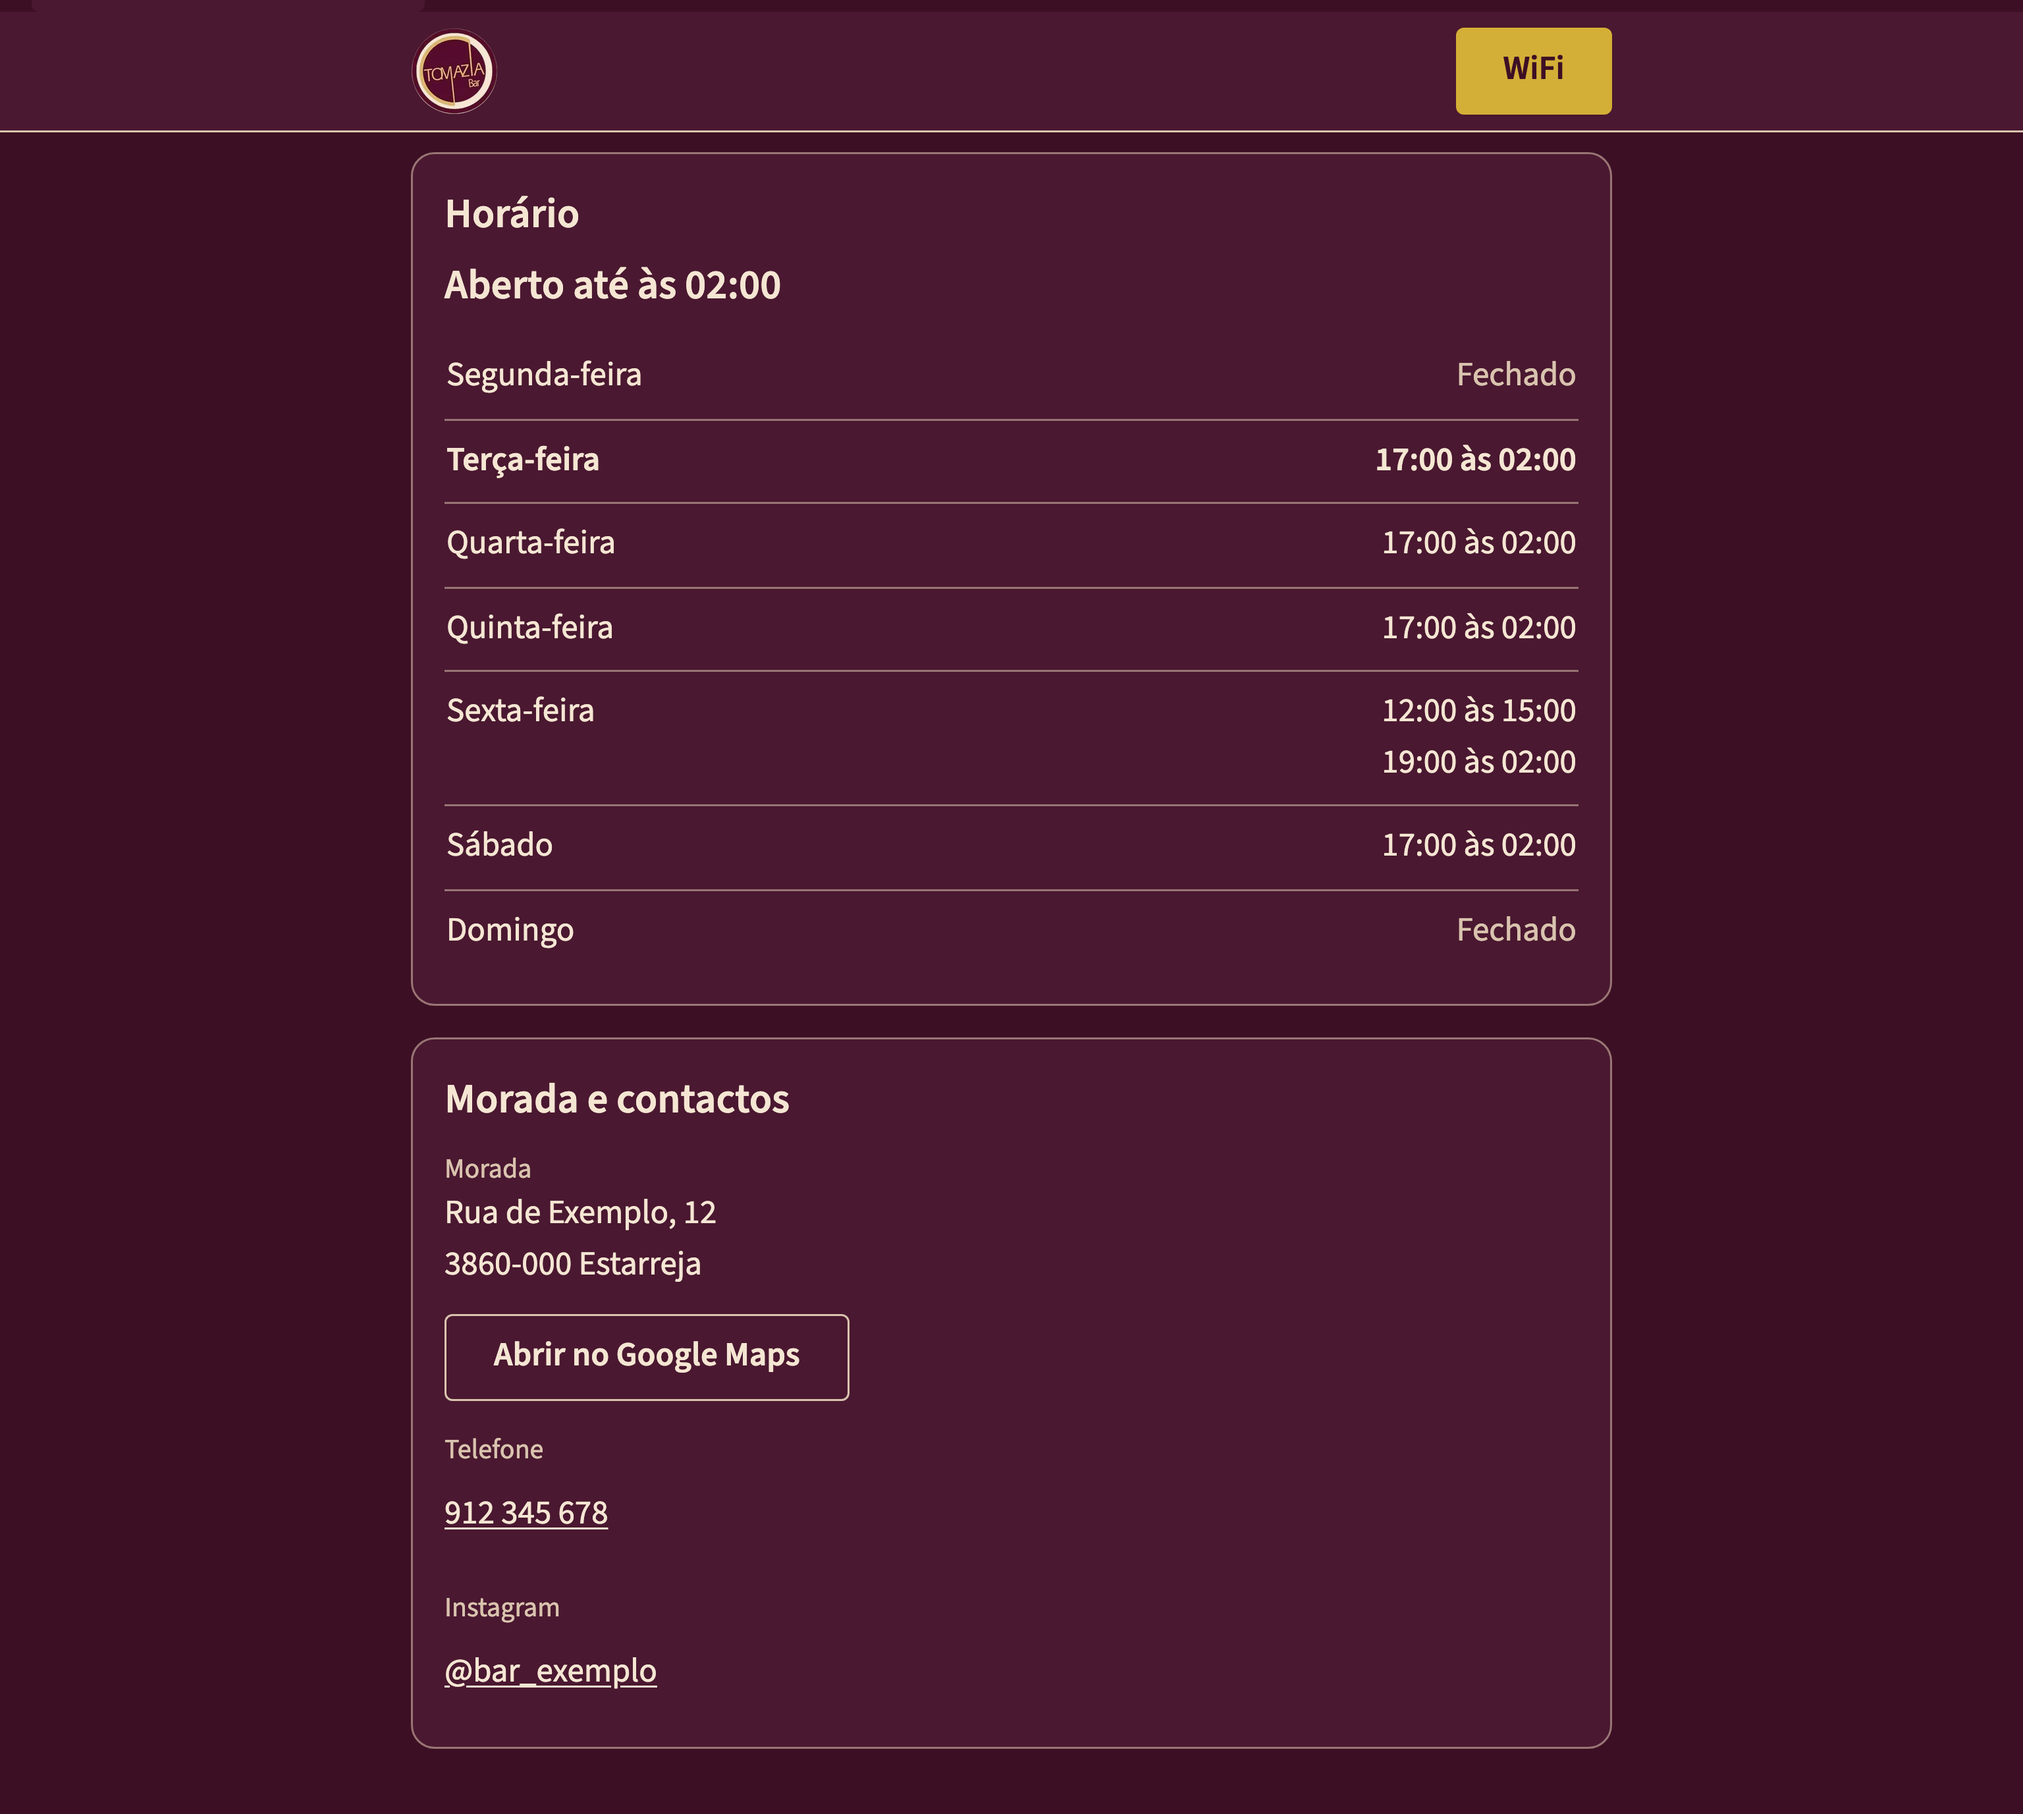
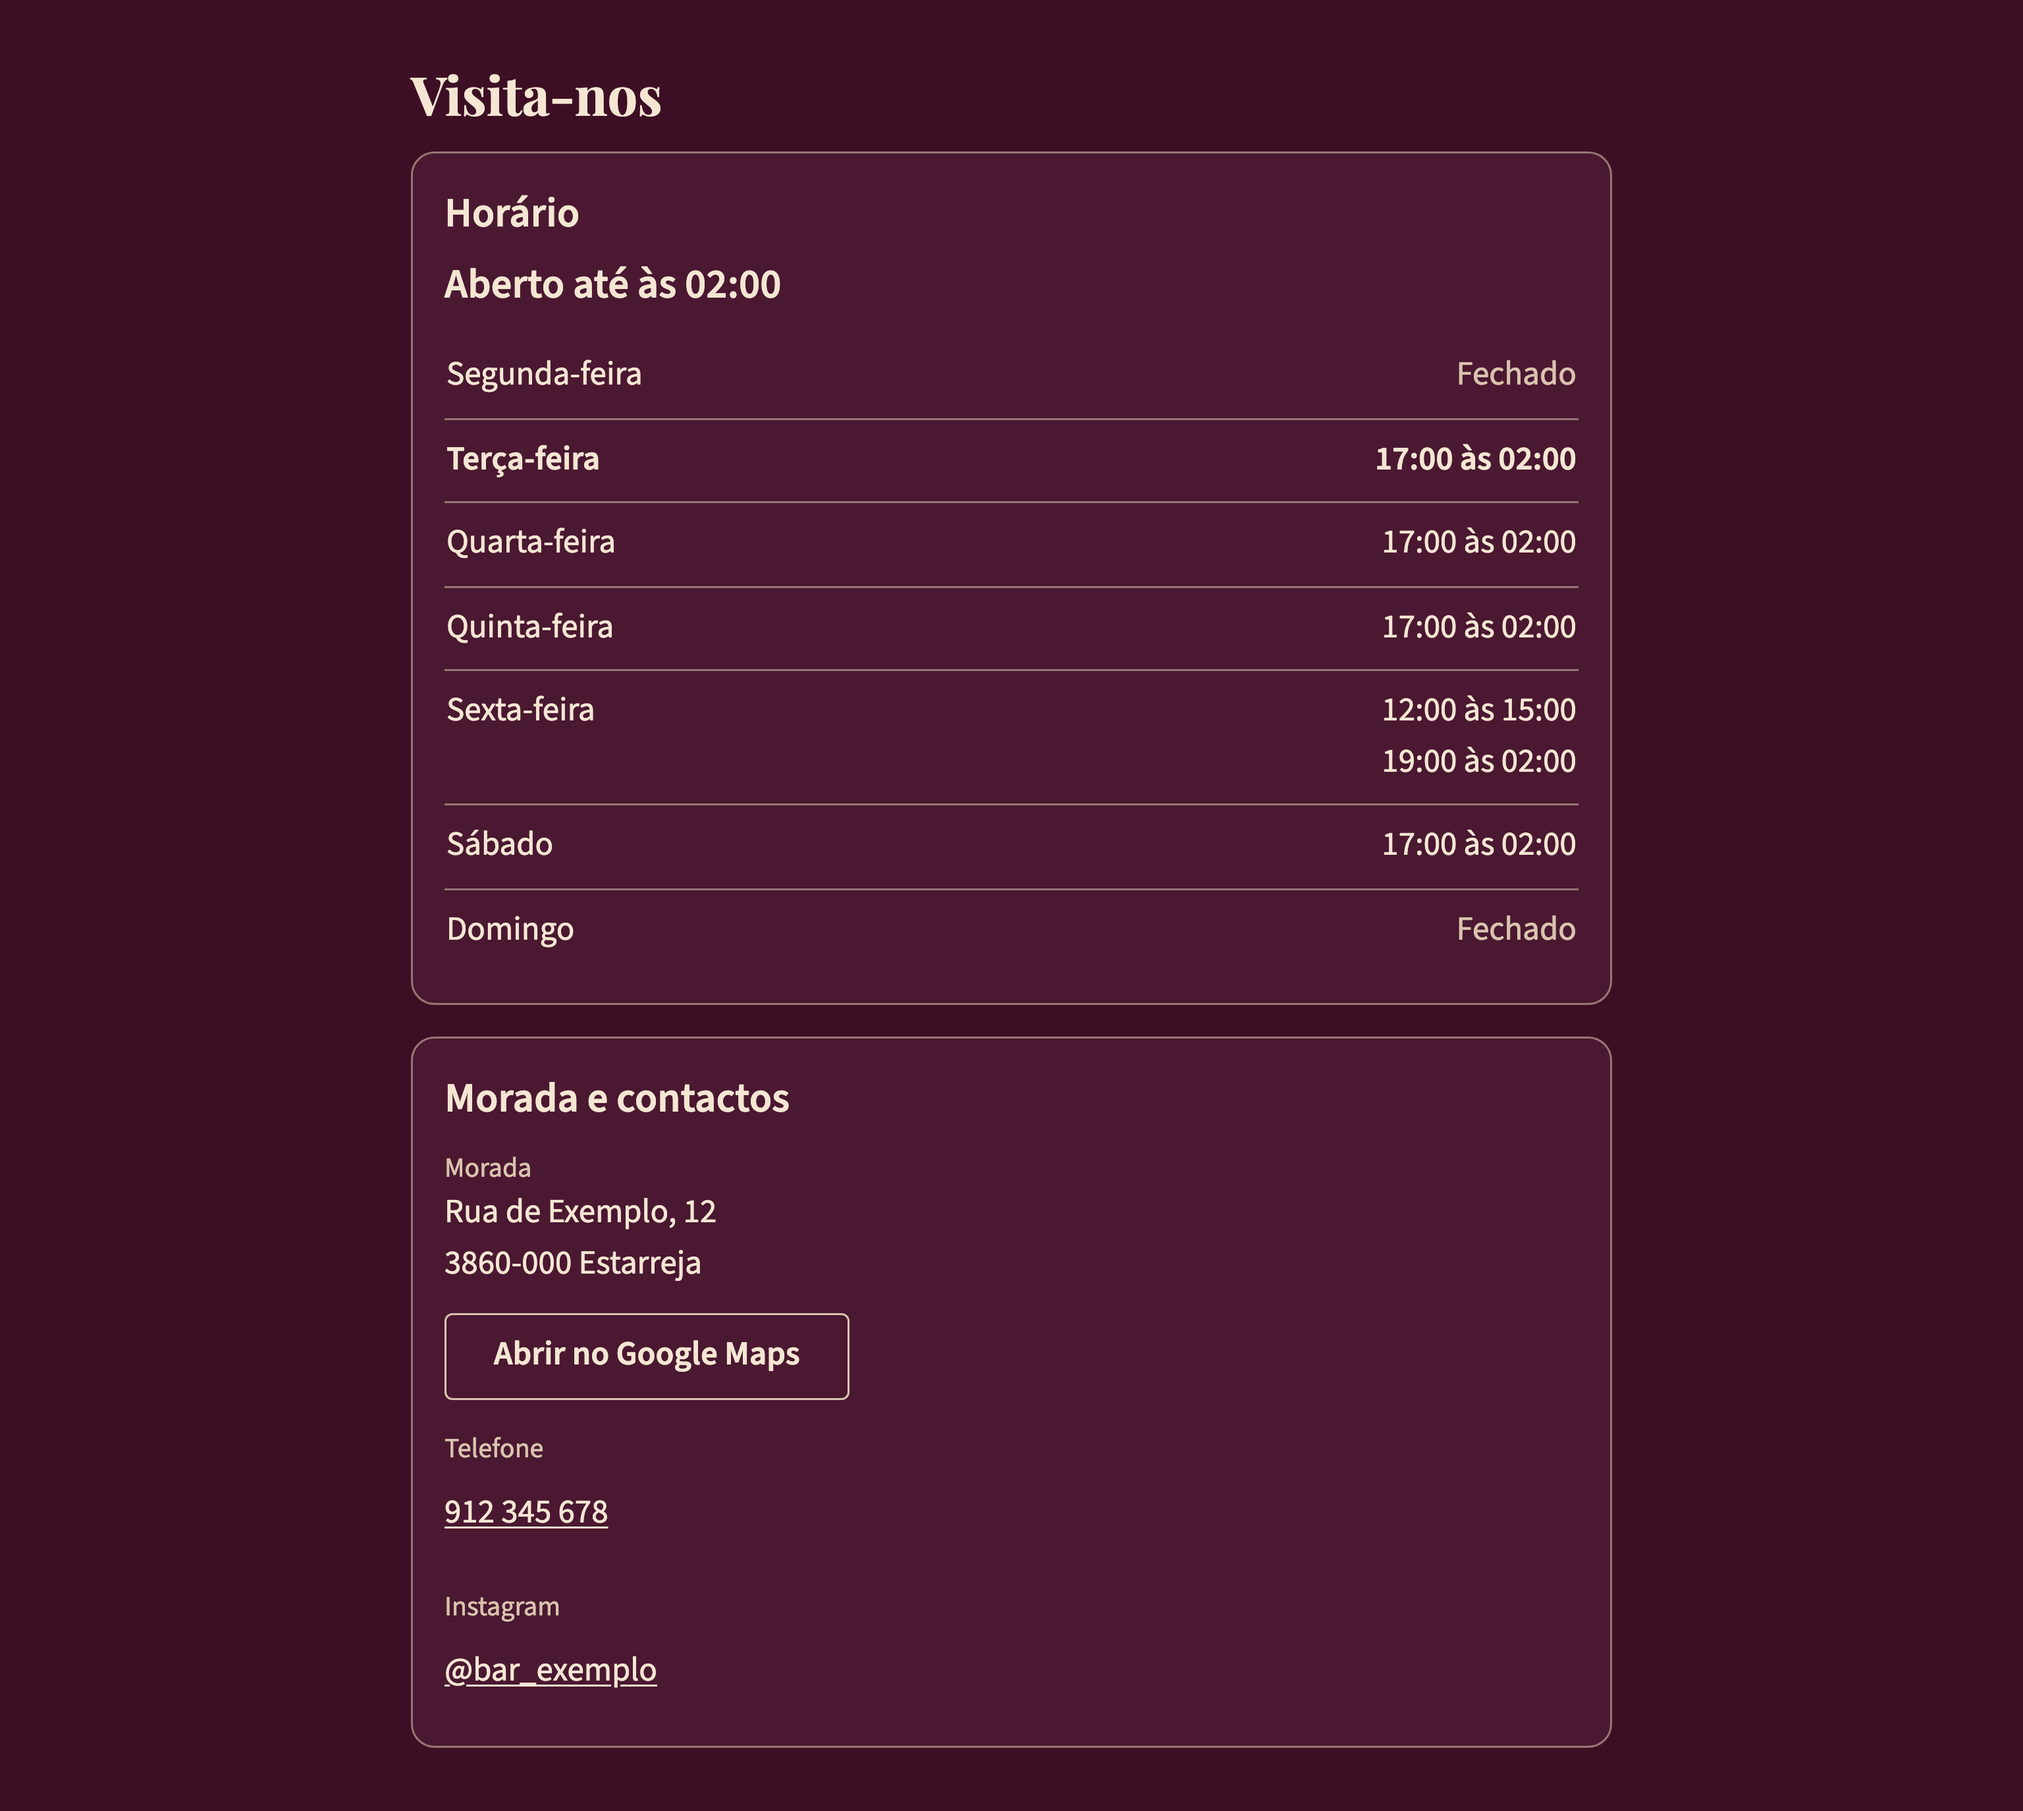
fix(publico): ajustes da revisao da F3-06a
O temporizador nunca passa da proxima hora UTC inteira: na noite de marco
uma fronteira que nao existe deixa de dar recalculos de segundo a segundo,
e em outubro o ecra acompanha a segunda passagem da 01:30. "Tentar outra
vez" cumpre a promessa anterior. Teto do pacote publico em 86 kB (decisao
do Tomas). Captura a 1024 com o titulo visivel.

diff --git a/frontend/src/pages/publico/VisitaNos.mudanca-de-hora.test.tsx b/frontend/src/pages/publico/VisitaNos.mudanca-de-hora.test.tsx
@@ -1,0 +1,83 @@
+/**
+ * F3-06a, 5.3 — o temporizador nas duas noites de mudança de hora.
+ *
+ * Duas coisas que só se vêm nessas noites, ambas com um sábado `17:00–01:30`:
+ *
+ *  - **29 de março**: a 01:30 de relógio não existe (01:59 salta para 02:00). A
+ *    fronteira recua para «agora» e a espera não pode cair no mínimo de 1 s
+ *    durante uma hora (cerca de 1800 recálculos): vai para a hora UTC cheia
+ *    seguinte.
+ *  - **25 de outubro**: a 01:xx passa duas vezes. Na primeira 01:30 (verão) o
+ *    sábado já fechou; à 01:00 de inverno (uma hora real depois) o
+ *    `estadoDoHorario` diz «aberto», e o ecrã tem de o dizer também, em vez de
+ *    esperar uma hora inteira com «Fechado».
+ */
+import { act, render, screen } from "@testing-library/react";
+import { afterEach, beforeEach, describe, expect, it, vi } from "vitest";
+
+import { esperaAteAProximaMudanca, periodosDaSemana } from "../../lib/horario/estado-do-horario";
+import { semanaDeTeste } from "../../testes/gestao";
+import {
+  MUDANCA_DE_HORA,
+  TEXTOS_DO_VISITA_NOS as T,
+  infoCom,
+  pronto,
+} from "../../testes/visita-nos";
+import { VisitaNos } from "./VisitaNos";
+
+const MINUTO = 60_000;
+const SABADO_ATE_UMA_E_MEIA = () => semanaDeTeste({ sabado: [["17:00", "01:30"]] });
+
+beforeEach(() => {
+  vi.useFakeTimers();
+});
+
+afterEach(() => {
+  vi.useRealTimers();
+});
+
+function linha(): string {
+  const titulo = screen.getByRole("heading", { name: T.tituloDoHorario, level: 3 });
+  return titulo.nextElementSibling?.textContent ?? "(sem linha do momento)";
+}
+
+describe("29 de março: a fronteira que não existe", () => {
+  it("a 00:30 UTC com fecho às 01:30 espera cerca de 30 minutos, não 1 segundo", () => {
+    const espera = esperaAteAProximaMudanca(
+      periodosDaSemana(SABADO_ATE_UMA_E_MEIA()),
+      new Date(MUDANCA_DE_HORA.marDom00h30),
+    );
+
+    expect(espera).toBeGreaterThanOrEqual(30 * MINUTO);
+    expect(espera).toBeLessThanOrEqual(31 * MINUTO);
+  });
+});
+
+describe("25 de outubro: a segunda passagem da 01:xx", () => {
+  it("a espera pára na hora UTC cheia, quando o relógio recua", () => {
+    const espera = esperaAteAProximaMudanca(
+      periodosDaSemana(SABADO_ATE_UMA_E_MEIA()),
+      new Date(MUDANCA_DE_HORA.outDom01h30Primeira),
+    );
+
+    expect(espera).toBeGreaterThanOrEqual(30 * MINUTO);
+    expect(espera).toBeLessThanOrEqual(31 * MINUTO);
+  });
+
+  it("à 01:30 de verão está fechado; meia hora depois (01:00 de inverno) o ecrã diz aberto", () => {
+    vi.setSystemTime(new Date(MUDANCA_DE_HORA.outDom01h30Primeira));
+    render(
+      <VisitaNos
+        info={pronto(infoCom({ horario: SABADO_ATE_UMA_E_MEIA() }))}
+        aoTentarOutraVez={() => Promise.resolve()}
+      />,
+    );
+    expect(linha()).toMatch(/^Fechado/);
+
+    act(() => {
+      vi.advanceTimersByTime(31 * MINUTO);
+    });
+
+    expect(linha()).toBe("Aberto até à 01:30");
+  });
+});

diff --git a/frontend/src/lib/horario/estado-do-horario.ts b/frontend/src/lib/horario/estado-do-horario.ts
@@ -240,6 +240,22 @@ export function esperaAteAProximaMudanca(periodosDaData: PeriodosDaData, agora: 
     chegada.minuto;
   instante -= (chegadaEmMinutos - alvo) * MS_DO_MINUTO;
 
-  const espera = instante - agora.getTime() + FOLGA_EM_MS;
+  /*
+   * Nunca se espera para lá da próxima hora UTC inteira. As mudanças de hora de
+   * Lisboa são às 01:00 UTC, e o relógio da parede salta por horas inteiras:
+   * acordar nas horas UTC cheias é acordar do lado certo de cada salto.
+   *
+   * - Em março, uma fronteira entre 01:00 e 01:59 de relógio não existe, e a
+   *   correção acima recua-a para «agora»: sem isto a espera caía no mínimo de
+   *   1 s durante uma hora. Aqui vai para a hora cheia seguinte.
+   * - Em outubro a hora 01:xx de relógio passa duas vezes. Quem acordasse só
+   *   uma hora depois via «Fechado» na segunda passagem de um fecho às 01:30,
+   *   quando o `estadoDoHorario` já diz «aberto» (01:00 de inverno).
+   */
+  const agoraEmMs = agora.getTime();
+  const proximaHoraCheia = (Math.floor(agoraEmMs / UMA_HORA_EM_MS) + 1) * UMA_HORA_EM_MS;
+  const quando = instante <= agoraEmMs ? proximaHoraCheia : Math.min(instante, proximaHoraCheia);
+
+  const espera = quando - agoraEmMs + FOLGA_EM_MS;
   return Math.min(Math.max(espera, PRAZO_MINIMO_EM_MS), UMA_HORA_EM_MS);
 }

diff --git a/frontend/src/orcamento-q02.test.ts b/frontend/src/orcamento-q02.test.ts
@@ -115,8 +115,16 @@ const TEMPO_DO_BUILD = 240_000;
  * 80 962: é o sinal de revisão, recalibrado com o custo real e não com a
  * estimativa. O critério Q-02 a sério são os 100 kB do `size-limit`, e continua
  * folgado.
+ *
+ * **86 000 bytes (F3-06a, Visita-nos; decisão do Tomás, 26 de novembro de
+ * 2026).** A secção traz o cálculo do horário em hora de Lisboa, os textos da
+ * linha do momento, as ligações de contacto e o `useMomento`, e o `App.tsx` passou
+ * a ter a tentativa repetível do `/info`. Medido com a mesma conta deste
+ * ficheiro: **85 420 bytes** (o `size-limit` dá 85,23 kB; era 82,33 kB em
+ * `main`). 86 000 deixa cerca de 580 bytes de folga sobre a medida, o sinal de
+ * revisão do costume; o critério Q-02 a sério são os 100 kB do `size-limit`.
  */
-const TECTO_DO_PACOTE_PUBLICO = 83_000;
+const TECTO_DO_PACOTE_PUBLICO = 86_000;
 
 /**
  * Uma frase que só existe no ecrã da ementa.

diff --git a/frontend/src/App.tsx b/frontend/src/App.tsx
@@ -103,6 +103,8 @@ function App(): ReactElement {
   const tentarOutraVez = useCallback(
     () =>
       new Promise<void>((cumprir) => {
+        // Cumpre a promessa anterior antes de a substituir: ninguém fica à espera para sempre.
+        aoAcabar.current?.();
         aoAcabar.current = cumprir;
         setTentativa((anterior) => anterior + 1);
       }),
